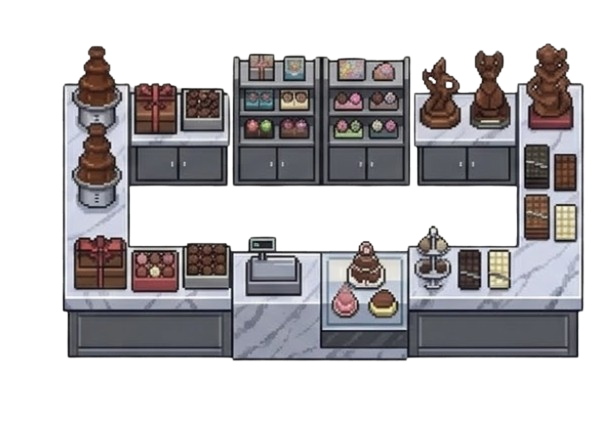
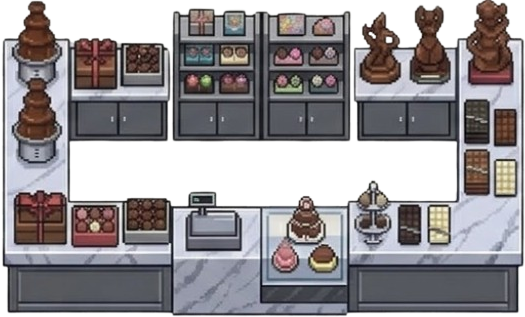
feat(loja): adiciona objetos e colisões na loja de chocolate (#133)

diff --git a/public/src/utilitarios/configuracao-interior.js b/public/src/utilitarios/configuracao-interior.js
@@ -14,6 +14,13 @@ export const ObjetosInterior = {
         { imagem: 'brinquedoMesa', x: 350, y: 750, escala: 0.35 },
         { imagem: 'brinquedoPosters', x: 1300, y: 100, escala: 0.25 }
     ],
+
+    'Chocolate': [
+        { imagem: 'chocolateBancada', x: 740, y: 450, escala: 1.3 },
+        { imagem: 'chocolateMesa', x: 1350, y: 800, escala: 1.0 },
+        { imagem: 'chocolatePlaca', x: 780, y: 150, escala: 1.0 }
+    ],
+
     'Games': [
         { imagem: 'fliperama-azul', x: 200, y: 150, escala: 1.2 },
         { imagem: 'fliperama-vermelho', x: 280, y: 150, escala: 1.2 }

diff --git a/public/src/cenas/cena-cidade.js b/public/src/cenas/cena-cidade.js
@@ -170,8 +170,8 @@ export class GameScene extends Phaser.Scene {
                 lojaFisicaOriginX: 0.62,
                 lojaFisicaOriginY: 0.63,
 
-                npcX: 600,
-                npcY: 350,
+                npcX: 750,
+                npcY: 423,
 
                 portaX: 230,
                 portaY: 365,
@@ -304,7 +304,7 @@ export class GameScene extends Phaser.Scene {
         });
 
         console.log('Lembrar de retirar');
-        this.scene.start('peluciaScene');
+        this.scene.start('chocolateScene');
 
     }
 

diff --git a/public/src/cenas/cena-loja.js b/public/src/cenas/cena-loja.js
@@ -294,6 +294,9 @@ export default class LojaScene extends Phaser.Scene {
             this.npc.setDepth(101); 
             
         }
+        else if (this.nomeLoja === 'Chocolate') {
+            this.npc.setDepth(101); 
+        }
         
     
 
